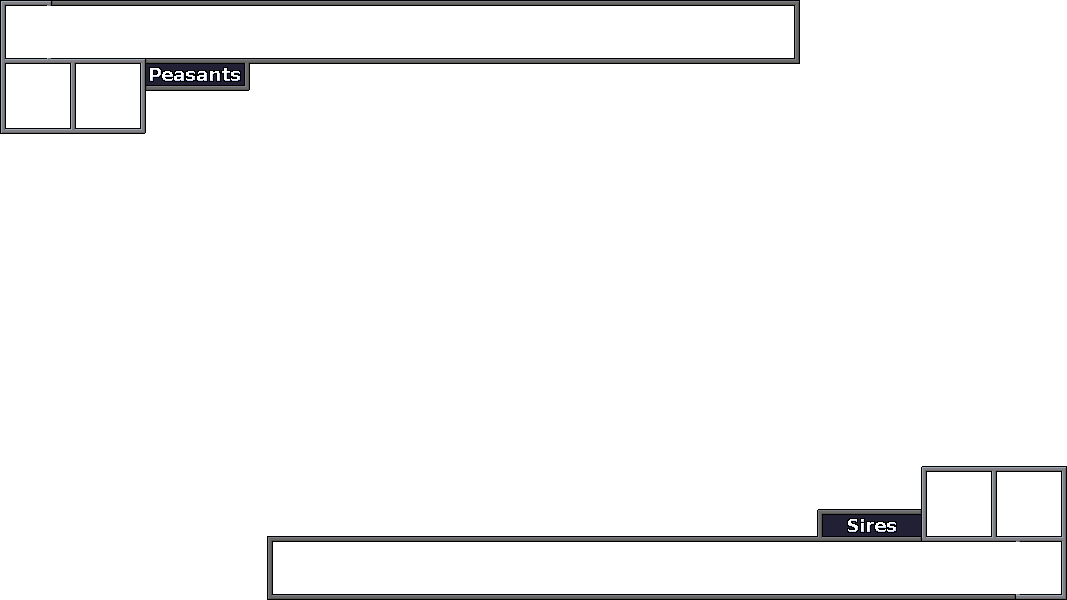
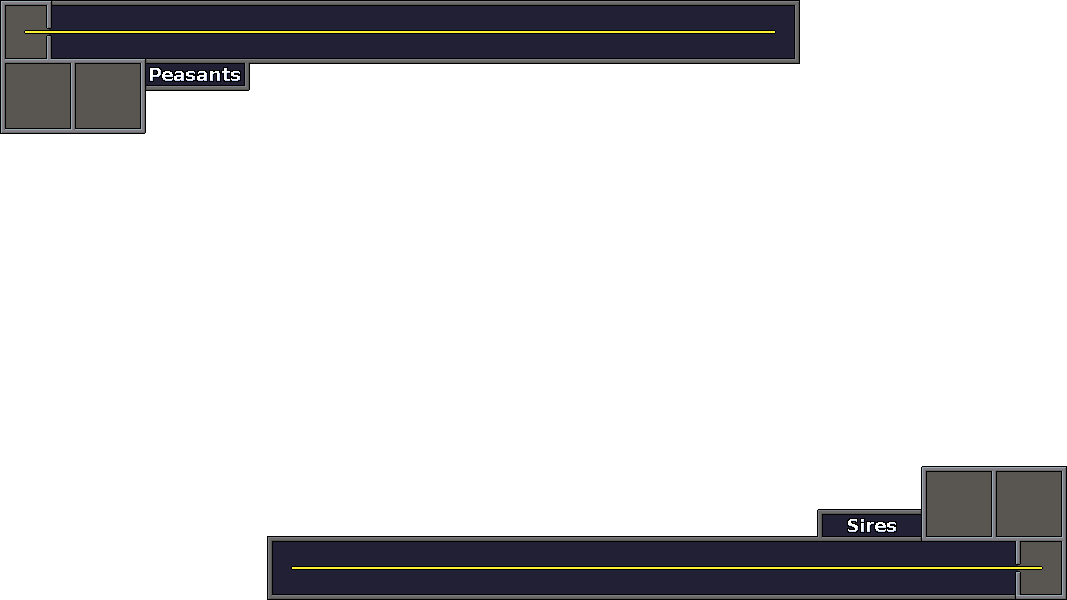
Part work on timeline

Changed region(s): [[0.0, 0.0, 0.7423, 0.24], [0.2474, 0.78, 1.0, 0.99]]

diff --git a/src/peasants-vs-sires.js b/src/peasants-vs-sires.js
@@ -522,14 +522,94 @@ window.addEventListener('load',function(e) {
     }
   });
 
-  // Sprite used to indicate whether a button is disabled, enabled, or active.
+  // Sprite used to indicate whether a key is disabled, enabled, or pressed.
+  // Expects subclasses to add 'disabledAsset', 'enabledAsset', and 'pressedAsset'
+  // properties, along with a 'key' property specifying the key to track.
   Q.Sprite.extend("ButtonIndicator", {
     init: function(p) {
-      this._super(p);
-
-      this.on('homingStarted', function(target) {
-        this.play("running_" + this.p.facing);
+      this._super(p, {
+        cx: 0,
+        cy: 0,
+        enabled: true,
+        asset: p.enabledAsset
       });
+    },
+
+    step: function(dt) {
+      if (!this.p.enabled) {
+        this.p.asset = this.p.disabledAsset;
+      }
+      else if (Q.inputs[this.p.key]) {
+        this.p.asset = this.p.pressedAsset;
+      }
+      else {
+        this.p.asset = this.p.enabledAsset;
+      }
+    }
+  });
+
+  Q.Sprite.extend("TimelineItemBackground", {
+    init: function(p) {
+      this._super(p, {
+        z: 0,
+        cx: 0,
+        cy: 0,
+        asset: "timeline_item_background.png",
+        direction: 'left',
+        speed: 30,
+        targetX: 0,
+        targetReached: false,
+        callback: function() { }
+      });
+    },
+
+    step: function(dt) {
+      if (this.p.targetReached) {
+        return;
+      }
+
+      var i = this.p.direction === 'left' ? -1 : 1;
+      this.p.x += i * this.p.speed * dt;
+
+      if (this.p.x <= this.p.targetX) {
+        this.p.targetReached = true;
+        this.p.callback(this);
+      }
+    }
+  });
+
+  // Puts items on a timeline which move steadily towards the other end.
+  Q.Sprite.extend("Timeline", {
+    init: function(p) {
+      this._super(p, {
+        cx: 0,
+        cy: 0,
+        duration: 15,
+        width: 747,
+        direction: 'left',
+      });
+    },
+
+    step: function(dt) {
+    },
+
+    addItem: function(itemSprite) {
+      this.stage.insert(new Q.TimelineItemBackground({
+        x: this.p.x + (this.p.direction === 'left' ? this.p.width - 1 : 0),
+        y: this.p.y,
+        direction: this.p.direction,
+        speed: this.p.width / this.p.duration,
+        targetX: this.p.x + (this.p.direction === 'left' ? 0 : this.p.width - 1),
+        callback: function(item) {
+          // TODO
+          /*
+          if (item.foregroundSprite) {
+            item.foregroundSprite.destroy();
+          }
+          item.destroy();
+          */
+        }
+      }));
     }
   });
 
@@ -610,6 +690,50 @@ window.addEventListener('load',function(e) {
 
   // The scene with the UI content for the gameplay scene.
   Q.scene("gui", function(stage) {
+    var peasantHelpButton = new Q.ButtonIndicator({
+        x: 6,
+        y: 64,
+        key: 'peasantHelp',
+        disabledAsset: 'peasant_help_button_disabled.png',
+        enabledAsset: 'peasant_help_button_enabled.png',
+        pressedAsset: 'peasant_help_button_pressed.png',
+    });
+    var peasantFightButton = new Q.ButtonIndicator({
+        x: 76,
+        y: 64,
+        key: 'peasantFight',
+        disabledAsset: 'peasant_fight_button_disabled.png',
+        enabledAsset: 'peasant_fight_button_enabled.png',
+        pressedAsset: 'peasant_fight_button_pressed.png',
+    });
+    var sireHelpButton = new Q.ButtonIndicator({
+        x: 927,
+        y: 472,
+        key: 'sireHelp',
+        disabledAsset: 'sire_help_button_disabled.png',
+        enabledAsset: 'sire_help_button_enabled.png',
+        pressedAsset: 'sire_help_button_pressed.png',
+    });
+    var sireFightButton = new Q.ButtonIndicator({
+        x: 997,
+        y: 472,
+        key: 'sireFight',
+        disabledAsset: 'sire_fight_button_disabled.png',
+        enabledAsset: 'sire_fight_button_enabled.png',
+        pressedAsset: 'sire_fight_button_pressed.png',
+    });
+    stage.insert(peasantHelpButton);
+    stage.insert(peasantFightButton);
+    stage.insert(sireHelpButton);
+    stage.insert(sireFightButton);
+
+    var peasantTimeline = new Q.Timeline({
+        x: 8,
+        y: 8,
+    });
+    stage.insert(peasantTimeline);
+    peasantTimeline.addItem();
+
     stage.on('prerender', function(ctx) {
       ctx.drawImage(Q.asset('gui.png'), 0, 0);
     });
@@ -624,12 +748,10 @@ window.addEventListener('load',function(e) {
   Q.load(
     "background.png, " +
       "gui.png, " +
-      "peasant_help_button_disabled.png, peasant_help_button_enabled.png, peasant_help_button_active.png, " +
-      "peasant_fight_button_disabled.png, peasant_fight_button_enabled.png, peasant_fight_button_active.png, " +
-      "sire_help_button_disabled.png, sire_help_button_enabled.png, sire_help_button_active.png, " +
-      "sire_fight_button_disabled.png, sire_fight_button_enabled.png, sire_fight_button_active.png, " +
-      "peasant_timeline_background.png, " +
-      "sire_timeline_background.png, " +
+      "peasant_help_button_disabled.png, peasant_help_button_enabled.png, peasant_help_button_pressed.png, " +
+      "peasant_fight_button_disabled.png, peasant_fight_button_enabled.png, peasant_fight_button_pressed.png, " +
+      "sire_help_button_disabled.png, sire_help_button_enabled.png, sire_help_button_pressed.png, " +
+      "sire_fight_button_disabled.png, sire_fight_button_enabled.png, sire_fight_button_pressed.png, " +
       "timeline_item_background.png, " +
       "poor_peasant.png, poor_peasant.json, " +
       "pitchfork_peasant.png, pitchfork_peasant.json, " +
